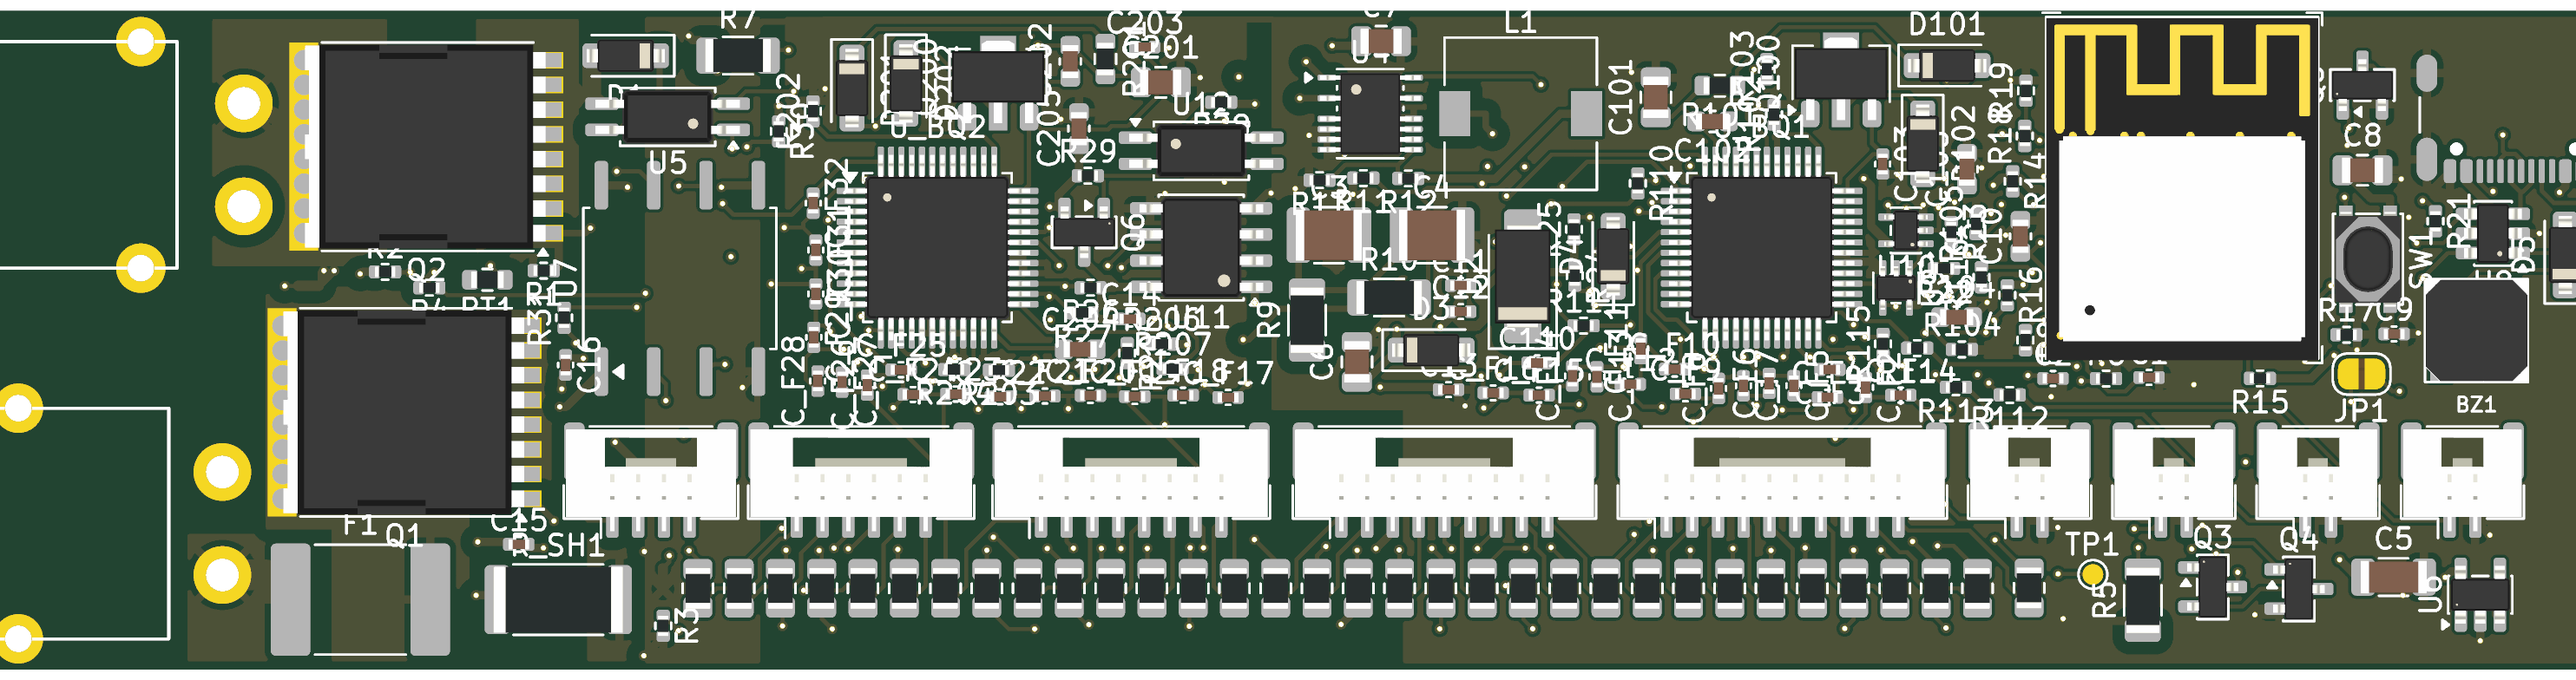
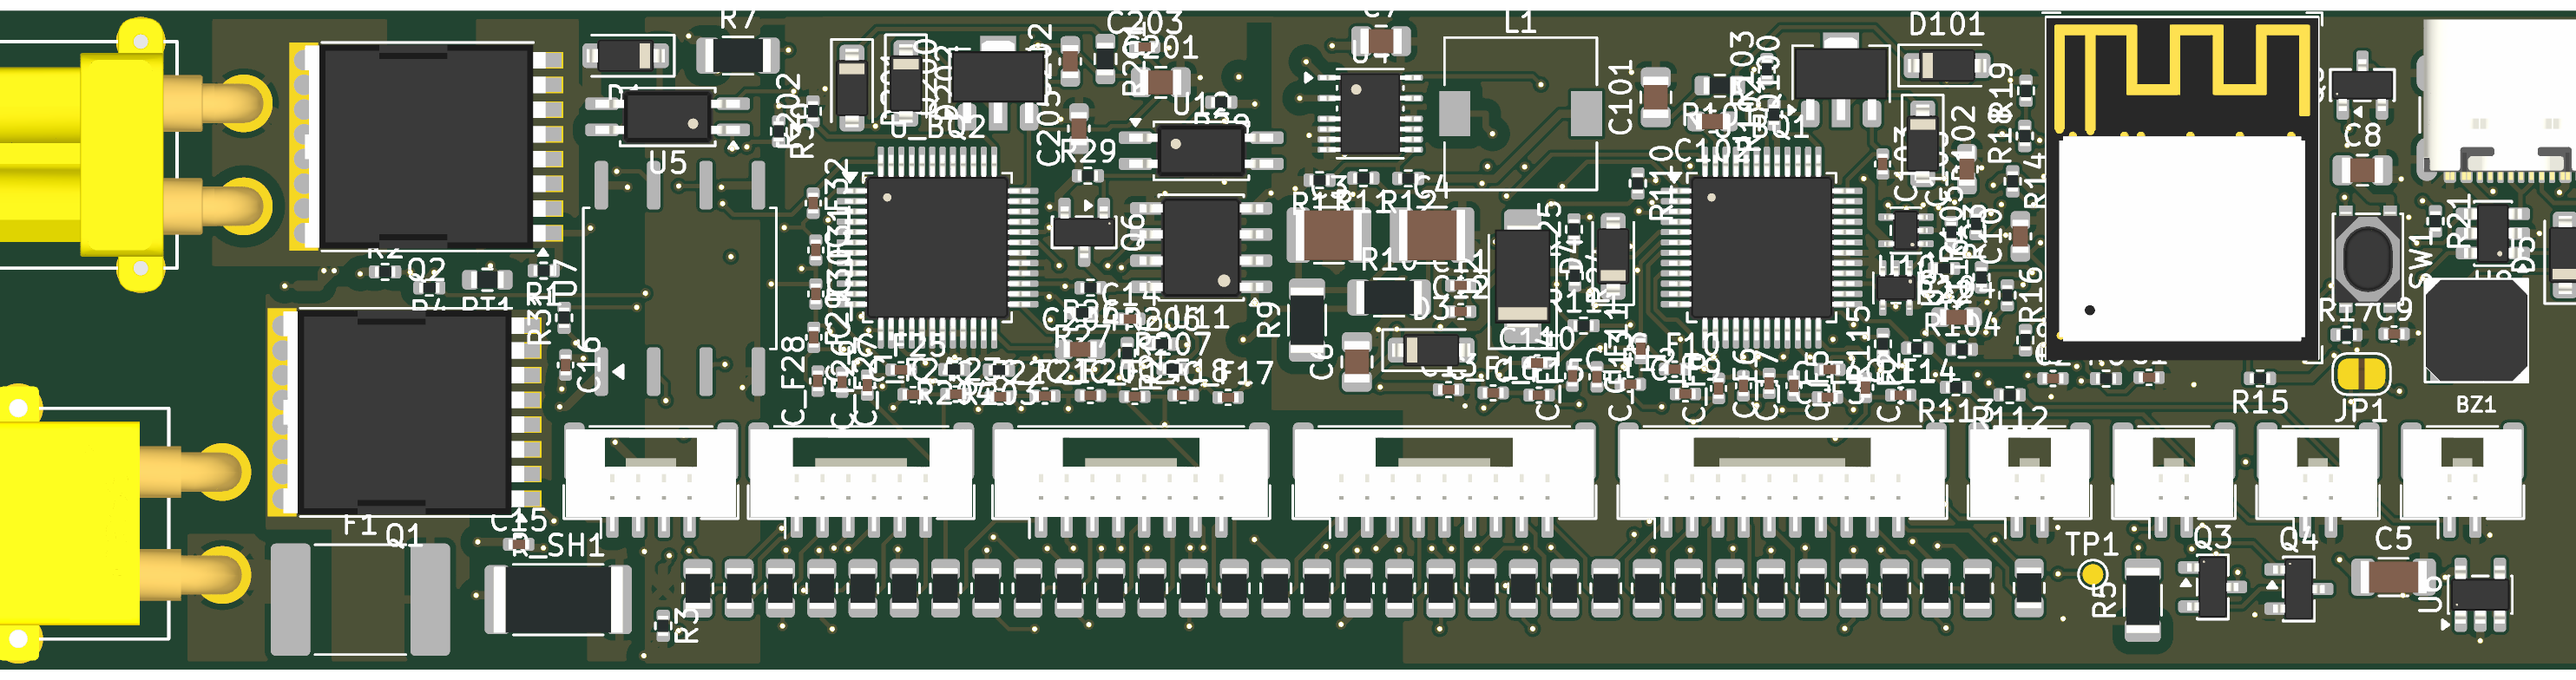
Rev A: 3D models for the XT30 and USB-C plugs, part-notes generator
The fixed footprints were copied with the root project's model path
(${KIPRJMOD}/3dmodels), which does not exist inside rev-a/. Point them
at ../3dmodels in the board, the placed snapshot and build_board.py, and
re-render top, iso and bottom. make_part_notes.py writes Board Boxes
part notes from circuit.py.

Changed region(s): [[0.0, 0.0306, 0.124, 0.4286], [0.0, 0.551, 0.093, 0.9796], [0.9299, 0.0306, 1.0, 0.2755]]

diff --git a/rev-a/tools/make_part_notes.py b/rev-a/tools/make_part_notes.py
@@ -1,0 +1,49 @@
+"""Write _tools/pcb_dashboard/part_notes.json for Board Boxes Info mode from rev A's circuit table.
+
+Purpose text comes straight from circuit.py. Possible issues are the open items from
+rev-a/README.md, attached to the parts they concern. Re-run after changing either.
+"""
+import json
+import re
+from pathlib import Path
+
+import circuit
+
+ROOT = Path(__file__).resolve().parents[2]
+OUT = ROOT / "_tools" / "pcb_dashboard" / "part_notes.json"
+
+ISSUES = {
+    "F1": ["No part chosen yet: needs an SMD fuse rated at least 150 V DC at the charge current."],
+    "Q1": ["Part not confirmed: must be fully on at the VOM1271's 7.8 V minimum gate drive (candidate IPT111N20NFD)."],
+    "Q2": ["Part not confirmed: must be fully on at the VOM1271's 7.8 V minimum gate drive (candidate IPT111N20NFD)."],
+    "U5": ["Pin 4 is assumed to be the + output; check with a meter on the first unit.",
+           "Slow turn-on, about 10 ms for two TOLL gates."],
+    "U4": ["Sees 134.4 V at full charge against a 140 V operating limit; only the R9/C3/C4 filter protects it."],
+    "U11": ["Its upper side powers up when GPIO9 goes low, and the firmware reads right away (4 retries). It may need a short delay."],
+    "U12": ["Its upper side powers up when GPIO9 goes low, and the firmware reads right away (4 retries). It may need a short delay."],
+    "R1": ["Not routed yet: pad 2 (CHG_SRC) still needs a link to the source pour."],
+    "U_BQ1": ["Not routed yet: pin 17 (GND) still needs a link to the ground plane."],
+    "D2": ["Not routed yet: pad 1 (SW) still needs a link to the switch-node track."],
+    "R_SH1": ["Check the current sign on the bench: the firmware expects SRP on the battery side (PCB_VERSION 2)."],
+}
+for k in range(1, 5):
+    ISSUES[f"J_CELL{k}"] = ["Pin order copied from the old board; check it against the harness by continuity."]
+
+
+def main():
+    rows = []
+    for p in circuit.PARTS:
+        rows.append({"match": re.escape(p["ref"]), "purpose": p["purpose"],
+                     "issues": ISSUES.get(p["ref"], [])})
+    data = {
+        "_about": "Per-part notes for Board Boxes Info mode, generated by rev-a/tools/make_part_notes.py "
+                  "from rev-a/tools/circuit.py. Matched by full reference designator. Don't edit by hand.",
+        "reva": rows,
+        "shared": [],
+    }
+    OUT.write_text(json.dumps(data, indent=1, ensure_ascii=False), encoding="utf-8")
+    print(f"wrote {len(rows)} notes to {OUT}")
+
+
+if __name__ == "__main__":
+    main()

diff --git a/rev-a/tools/build_board.py b/rev-a/tools/build_board.py
@@ -165,7 +165,8 @@ def clean_text(path, text, keep_refs):
                 m = re.search(r'\(property "Reference" "([^"]+)"', block)
                 keep = bool(m and m.group(1) in keep_refs)
             if keep:
-                out.append(block)
+                # fixed parts come from the root project: their 3D models live one level up
+                out.append(block.replace('(model "${KIPRJMOD}/3dmodels/', '(model "${KIPRJMOD}/../3dmodels/'))
             i = end
             continue
         out.append(line)
